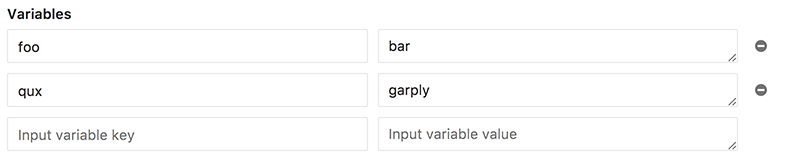
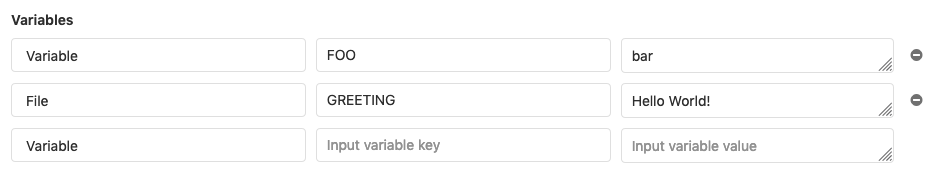
Update docs related to CI variables
Add `Variable Types` section to explain supported variable types and
update example and related screenshots.

diff --git a/doc/ci/variables/README.md b/doc/ci/variables/README.md
@@ -116,11 +116,19 @@ For a deeper look into them, see [`.gitlab-ci.yml` defined variables](#gitlab-ci
 #### Via the UI
 
 From the UI, navigate to your project's **Settings > CI/CD** and
-expand **Environment variables**. Create a new variable by naming
+expand **Variables**. Create a new variable by choosing its **type**, naming
 it in the field **Input variable key**, and define its value in the
 **Input variable value** field:
 
-![CI/CD settings - new variable](img/new_custom_variable_example.png)
+![CI/CD settings - new variable](img/new_custom_variables_example.png)
+
+##### Variable Types
+
+> [Introduced](https://gitlab.com/gitlab-org/gitlab-ce/issues/46806) in GitLab 11.11.
+
+Supported variable types are:
+* `env_var` - The runner will create environment variable named same as the variable key and set its value to the variable value.
+* `file` - The runner will write the variable value to a temporary file and set the path to this file as the value of an environment variable named same as the variable key.
 
 Once you've set the variables, call them from the `.gitlab-ci.yml` file:
 
@@ -129,12 +137,14 @@ test_variable:
   stage: test
   script:
     - echo $CI_JOB_STAGE # calls a predefined variable
-    - echo $TEST # calls a custom variable
+    - echo $TEST # calls a custom variable of type `env_var`
+    - echo $GREETING # calls a custom variable of type `file` that contains the path to the temp file
+    - cat $GREETING # the temp file itself contains the variable value
 ```
 
 The output will be:
 
-![Output custom variable](img/custom_variable_output.png)
+![Output custom variable](img/custom_variables_output.png)
 
 ### Masked Variables
 
@@ -297,7 +307,7 @@ use for storing things like passwords, SSH keys, and credentials.
 Group-level variables can be added by:
 
 1. Navigating to your group's **Settings > CI/CD** page.
-1. Inputing variable keys and values in the **Environment variables** section.
+1. Inputing variable types, keys, and values in the **Variables** section.
 Any variables of [subgroups](../../user/group/subgroups/index.md) will be inherited recursively.
 
 Once you set them, they will be available for all subsequent pipelines.
@@ -388,8 +398,7 @@ For instance, suppose you added a
 [custom variable `$TEST`](#creating-a-custom-environment-variable)
 as exemplified above and you want to override it in a manual pipeline.
 Navigate to your project's **CI/CD > Pipelines** and click **Run pipeline**.
-Choose the branch you want to run the pipeline for, then add a new variable
-pair through the UI:
+Choose the branch you want to run the pipeline for, then add a new variable through the UI:
 
 ![Override variable value](img/override_variable_manual_pipeline.png)
 
